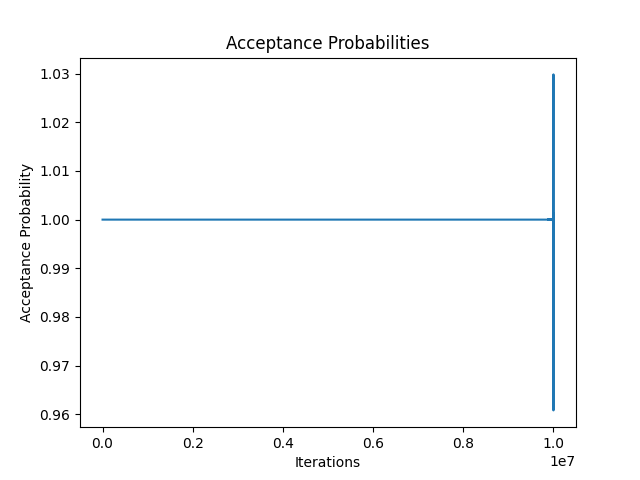
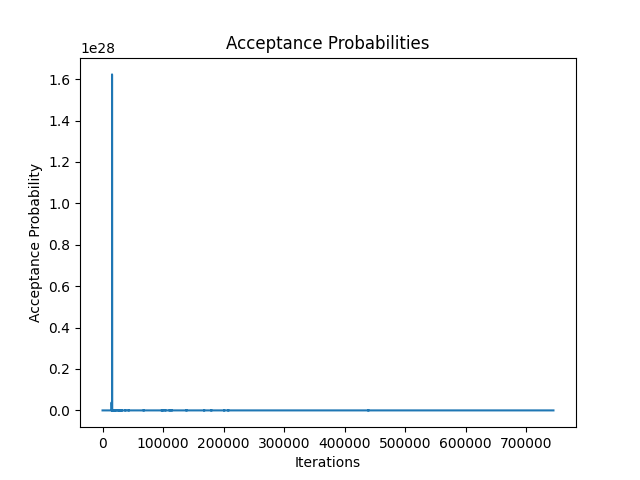
feat: add append objective functions to simulated annealing

diff --git a/src/advanced/simulatedannealing.cpp b/src/advanced/simulatedannealing.cpp
@@ -39,12 +39,14 @@ void SimulatedAnnealing::appendAcceptanceProbability(float new_acceptance_probab
 
 void SimulatedAnnealing::solve() {
     int objCurrent = cube.objectiveFunction();
+    appendObjectiveFunction(objCurrent);
     double currentTemperature = this->temperature;
     long iteration = 1;
     while (currentTemperature > this->min_temperature && objCurrent < 0) {
         vector<vector<int>> neighbor = generateRandomSuccessor();
         int objNeighbor = MagicFive(neighbor).objectiveFunction();
         double probability = acceptanceProbability(objCurrent, objNeighbor, currentTemperature);
+        appendObjectiveFunction(objCurrent);
         appendAcceptanceProbability((float)probability);
         if (objNeighbor > objCurrent) {
             cube = MagicFive(neighbor);
